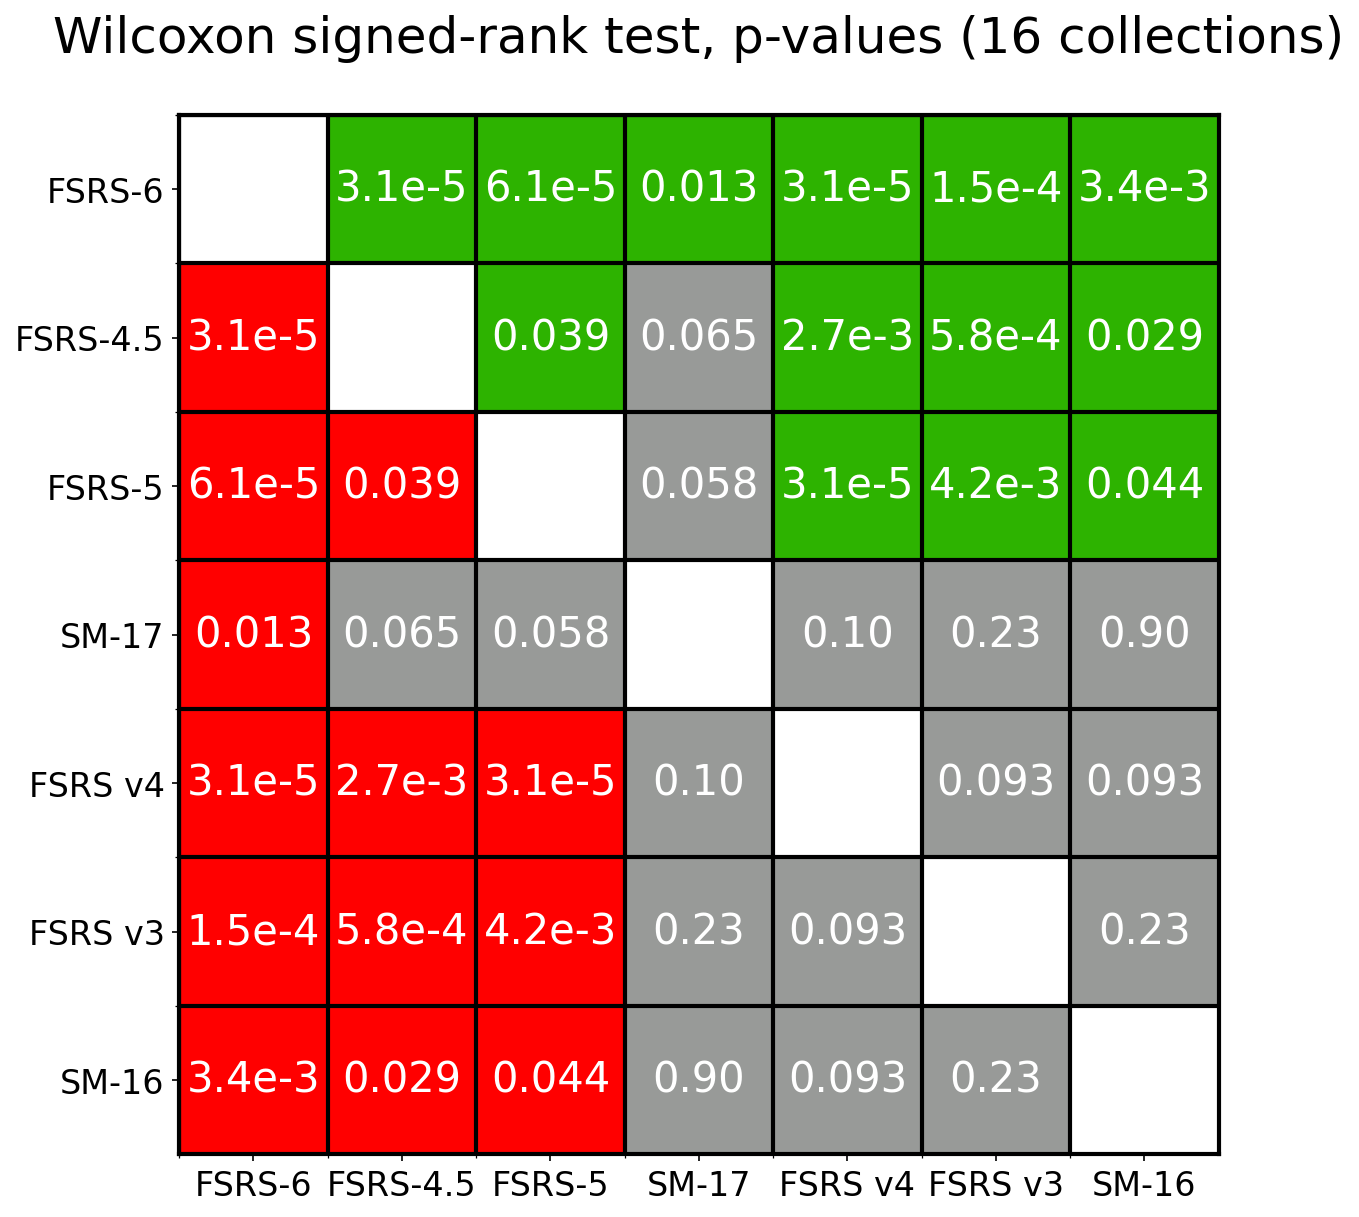
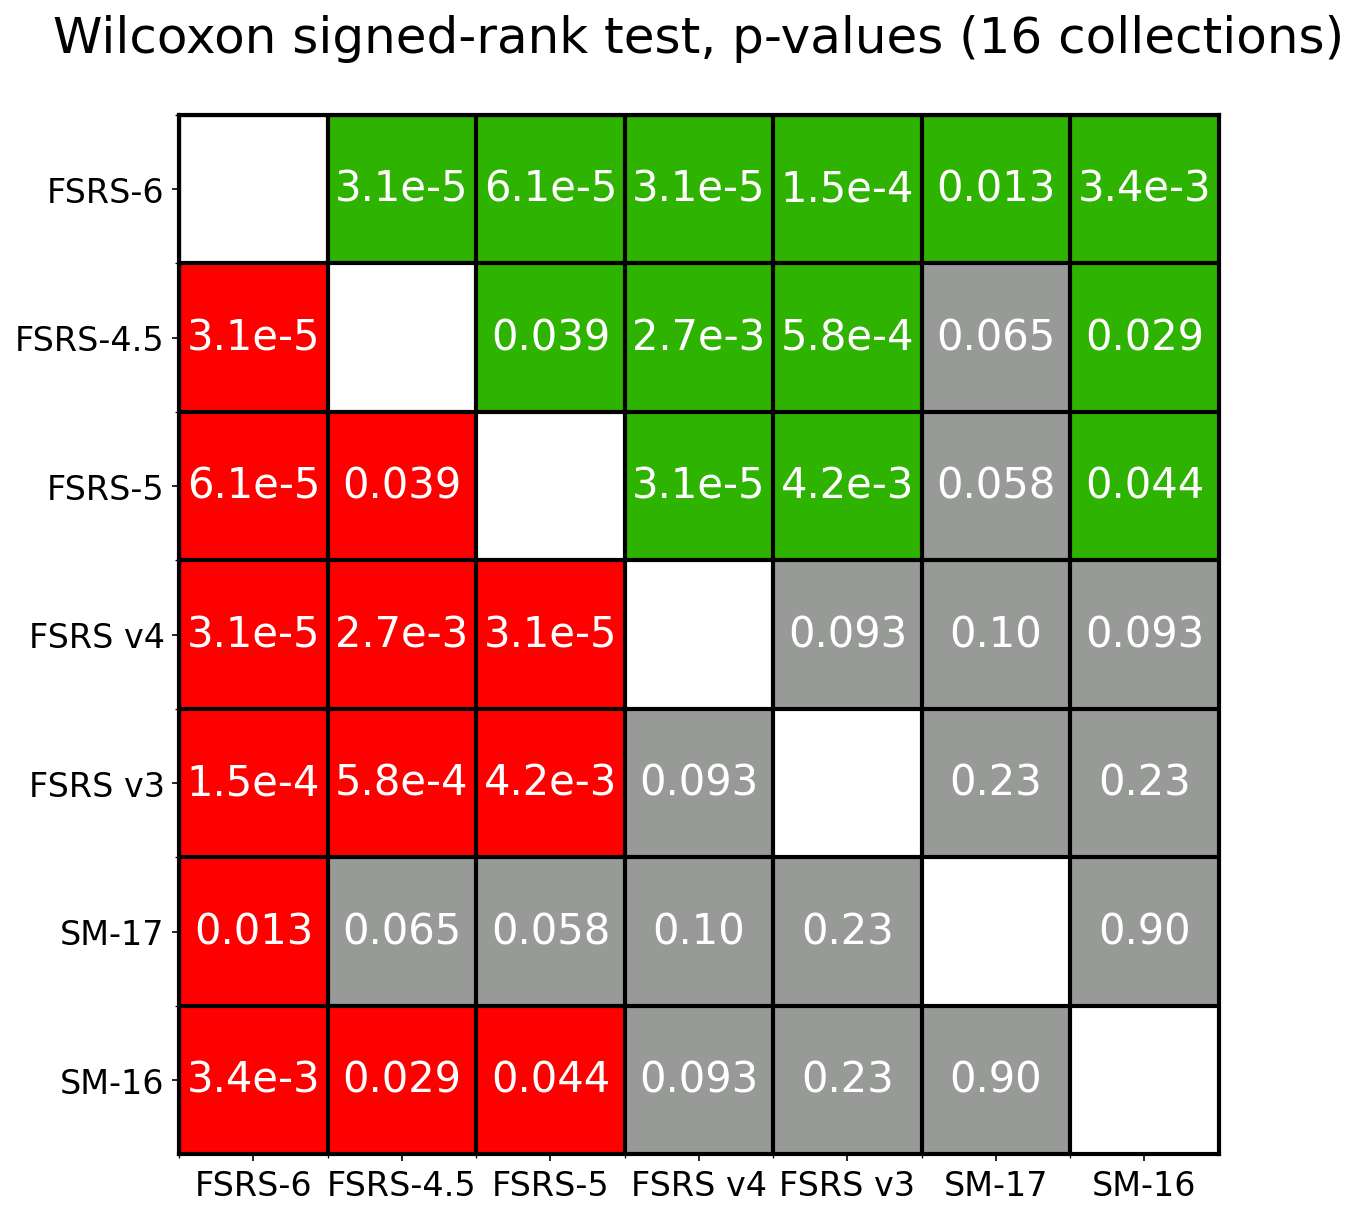
add Superiority

diff --git a/plot.py b/plot.py
@@ -2,9 +2,9 @@ import json
 import math
 import pathlib
 import warnings
-
 import matplotlib
 import matplotlib.pyplot as plt
+from matplotlib.colors import LinearSegmentedColormap
 import numpy as np
 import pandas as pd
 from scipy import stats
@@ -111,9 +111,9 @@ if __name__ == "__main__":
         "FSRS-6",
         "FSRS-4.5",
         "FSRS-5",
-        "SM17",
         "FSRSv4",
         "FSRSv3",
+        "SM17",
         "SM16",
     )
     csv_name = f"{len(models)} models.csv"
@@ -147,19 +147,17 @@ if __name__ == "__main__":
 
     n_collections = len(df)
     print(n_collections)
-    models2 = []
-    for i in range(len(models)):
-        models2.append(models[i])
+    models_name = list(models)
 
-    n = len(models2)
+    n = len(models_name)
     wilcox = [[-1 for i in range(n)] for j in range(n)]
     for i in range(n):
         for j in range(n):
             if i == j:
                 wilcox[i][j] = float("NaN")
             else:
-                df1 = df[f"{models2[i]}, LogLoss"]
-                df2 = df[f"{models2[j]}, LogLoss"]
+                df1 = df[f"{models_name[i]}, LogLoss"]
+                df2 = df[f"{models_name[j]}, LogLoss"]
                 if n_collections > 50:
                     result = logp_wilcox(df1[:n_collections], df2[:n_collections])[0]
                 else:
@@ -174,8 +172,8 @@ if __name__ == "__main__":
             if i == j:
                 color_wilcox[i][j] = float("NaN")
             else:
-                df1 = df[f"{models2[i]}, LogLoss"]
-                df2 = df[f"{models2[j]}, LogLoss"]
+                df1 = df[f"{models_name[i]}, LogLoss"]
+                df2 = df[f"{models_name[j]}, LogLoss"]
                 # we'll need the second value return by my function to determine the color
                 approx = logp_wilcox(df1[:n_collections], df2[:n_collections])
                 if n_collections > 50:
@@ -196,14 +194,14 @@ if __name__ == "__main__":
                         color_wilcox[i][j] = 1
 
     # small changes to labels
-    index_v3 = models2.index("FSRSv3")
-    index_v4 = models2.index("FSRSv4")
-    index_sm16 = models2.index("SM16")
-    index_sm17 = models2.index("SM17")
-    models2[index_v3] = "FSRS v3"
-    models2[index_v4] = "FSRS v4"
-    models2[index_sm16] = "SM-16"
-    models2[index_sm17] = "SM-17"
+    index_v3 = models_name.index("FSRSv3")
+    index_v4 = models_name.index("FSRSv4")
+    index_sm16 = models_name.index("SM16")
+    index_sm17 = models_name.index("SM17")
+    models_name[index_v3] = "FSRS v3"
+    models_name[index_v4] = "FSRS v4"
+    models_name[index_sm16] = "SM-16"
+    models_name[index_sm17] = "SM-17"
 
     fig, ax = plt.subplots(figsize=(10, 9), dpi=150)
     ax.set_title(
@@ -235,8 +233,8 @@ if __name__ == "__main__":
                     fontsize=20,
                 )
 
-    ax.set_xticks(np.arange(n), labels=models2, fontsize=16)
-    ax.set_yticks(np.arange(n), labels=models2, fontsize=16)
+    ax.set_xticks(np.arange(n), labels=models_name, fontsize=16)
+    ax.set_yticks(np.arange(n), labels=models_name, fontsize=16)
     ax.set_xticks(np.arange(n) - 0.5, minor=True)
     ax.set_yticks(np.arange(n) - 0.5, minor=True)
     plt.grid(True, alpha=1, color="black", linewidth=2, which="minor")
@@ -245,4 +243,119 @@ if __name__ == "__main__":
     pathlib.Path("./plots").mkdir(parents=True, exist_ok=True)
     title = f"Wilcoxon-{n_collections}-collections"
     plt.savefig(f"./plots/{title}.png", bbox_inches="tight")
-    plt.show()
+
+    percentages = np.full((n, n), -1.0)
+    for i in range(n):
+        for j in range(n):
+            if i == j:  # diagonal
+                pass
+            elif percentages[i, j] > 0:  # we already calculated this one
+                pass
+            else:
+                df1 = df[f"{models[i]}, LogLoss"]
+                df2 = df[f"{models[j]}, LogLoss"]
+                greater = 0
+                lower = 0
+                # there is probably a better way to do this using Pandas
+                for value1, value2 in zip(df1, df2):
+                    if value1 > value2:
+                        greater += 1
+                    else:
+                        lower += 1
+                percentages[i, j] = lower / (greater + lower)
+
+                true_i_j = percentages[i, j]
+                true_j_i = 1 - percentages[i, j]
+                i_j_up = math.ceil(true_i_j * 1000) / 1000
+                i_j_down = math.floor(true_i_j * 1000) / 1000
+                j_i_up = math.ceil(true_j_i * 1000) / 1000
+                j_i_down = math.floor(true_j_i * 1000) / 1000
+
+                up_down_error = abs(i_j_up - true_i_j) + abs(
+                    j_i_down - true_j_i
+                )  # sum of rounding errors
+                down_up_error = abs(i_j_down - true_i_j) + abs(
+                    j_i_up - true_j_i
+                )  # sum of rounding errors
+                if (
+                    up_down_error < down_up_error
+                ):  # choose whichever combination of rounding results in the lowest total absolute error
+                    percentages[i, j] = i_j_up
+                    percentages[j, i] = j_i_down
+                else:
+                    percentages[i, j] = i_j_down
+                    percentages[j, i] = j_i_up
+
+    fig, ax = plt.subplots(figsize=(10, 9), dpi=150)
+    ax.set_title(
+        f"Percent of collections where algorithm A (row) outperforms algorithm B (column)",
+        fontsize=15,
+        pad=10,
+    )
+
+    def rgb2hex(list):
+        return f"#{int(round(list[0])):02x}{int(round(list[1])):02x}{int(round(list[2])):02x}"
+
+    start_color = [255, 0, 0]
+    end_color = [45, 180, 0]
+    N = 256
+    colors = ["white", rgb2hex(start_color)]
+    positions = [0, 1e-6]
+    for i in range(1, N + 1):
+        pos = i / N
+        # this results in brighter colors than linear
+        quadratic_interp_R = np.sqrt(
+            pos * np.power(end_color[0], 2) + (1 - pos) * np.power(start_color[0], 2)
+        )
+        quadratic_interp_G = np.sqrt(
+            pos * np.power(end_color[1], 2) + (1 - pos) * np.power(start_color[1], 2)
+        )
+        quadratic_interp_B = np.sqrt(
+            pos * np.power(end_color[2], 2) + (1 - pos) * np.power(start_color[2], 2)
+        )
+        RGB_list = [quadratic_interp_R, quadratic_interp_G, quadratic_interp_B]
+        colors.append(rgb2hex(RGB_list))
+        positions.append(pos)
+
+    cmap = LinearSegmentedColormap.from_list(
+        "custom_linear", list(zip(positions, colors))
+    )
+
+    def clamp_percentages(percentages):
+        percentages = np.clip(percentages, a_min=0.005, a_max=1.0)
+        for i in range(n):
+            percentages[i, i] = -1.0
+        return percentages
+
+    plt.imshow(clamp_percentages(percentages), vmin=0, cmap=cmap)
+
+    for i in range(n):
+        for j in range(n):
+            if percentages[i, j] == -1:
+                pass
+            else:
+                string = f"{100*percentages[i, j]:.1f}%"
+                text = ax.text(
+                    j,
+                    i,
+                    string,
+                    ha="center",
+                    va="center",
+                    color="white",
+                    fontsize=18,
+                )
+
+    ax.set_xticks(np.arange(n), labels=models_name, fontsize=16)
+    ax.set_yticks(np.arange(n), labels=models_name, fontsize=16)
+    ax.set_xticks(np.arange(n) - 0.5, minor=True)
+    ax.set_yticks(np.arange(n) - 0.5, minor=True)
+    plt.grid(True, alpha=1, color="black", linewidth=2, which="minor")
+
+    for location in ["left", "right", "top", "bottom"]:
+        ax.spines[location].set_linewidth(2)
+
+    title = f"Superiority-{n_collections}-collections"
+    plt.savefig(
+        f"./plots/{title}.png",
+        bbox_inches="tight",
+    )

diff --git a/README.md b/README.md
@@ -59,6 +59,8 @@ It's worth mentioning that this test is not weighted, and therefore doesn't take
 
 ![Wilcoxon-16-collections](./plots/Wilcoxon-16-collections.png)
 
+![Superiority-16-collections](./plots/Superiority-16-collections.png)
+
 ## Share your data
 
 If you would like to support this project, please consider sharing your data with us. The shared data will be stored in [./dataset/](./dataset/) folder. 
